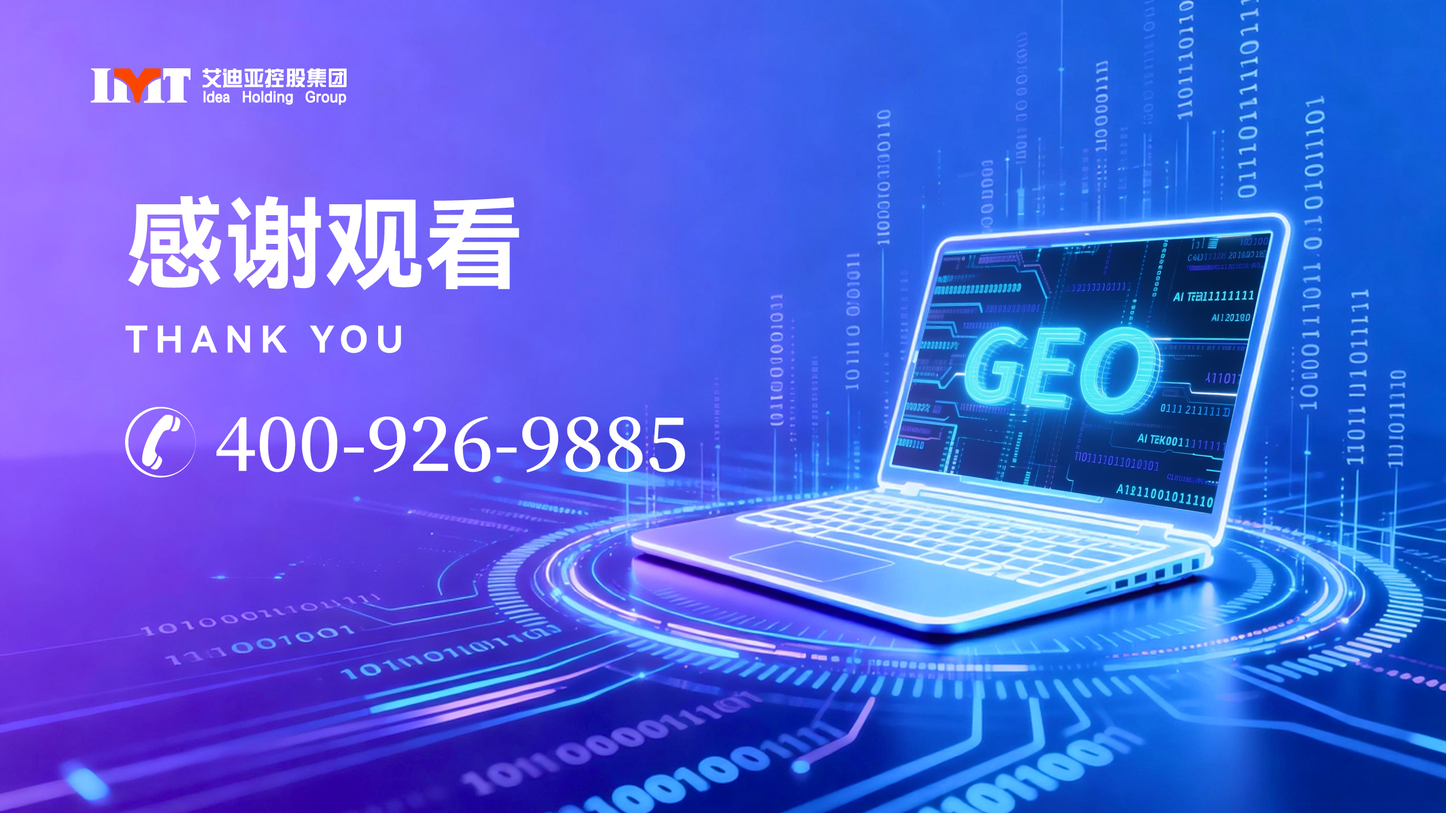
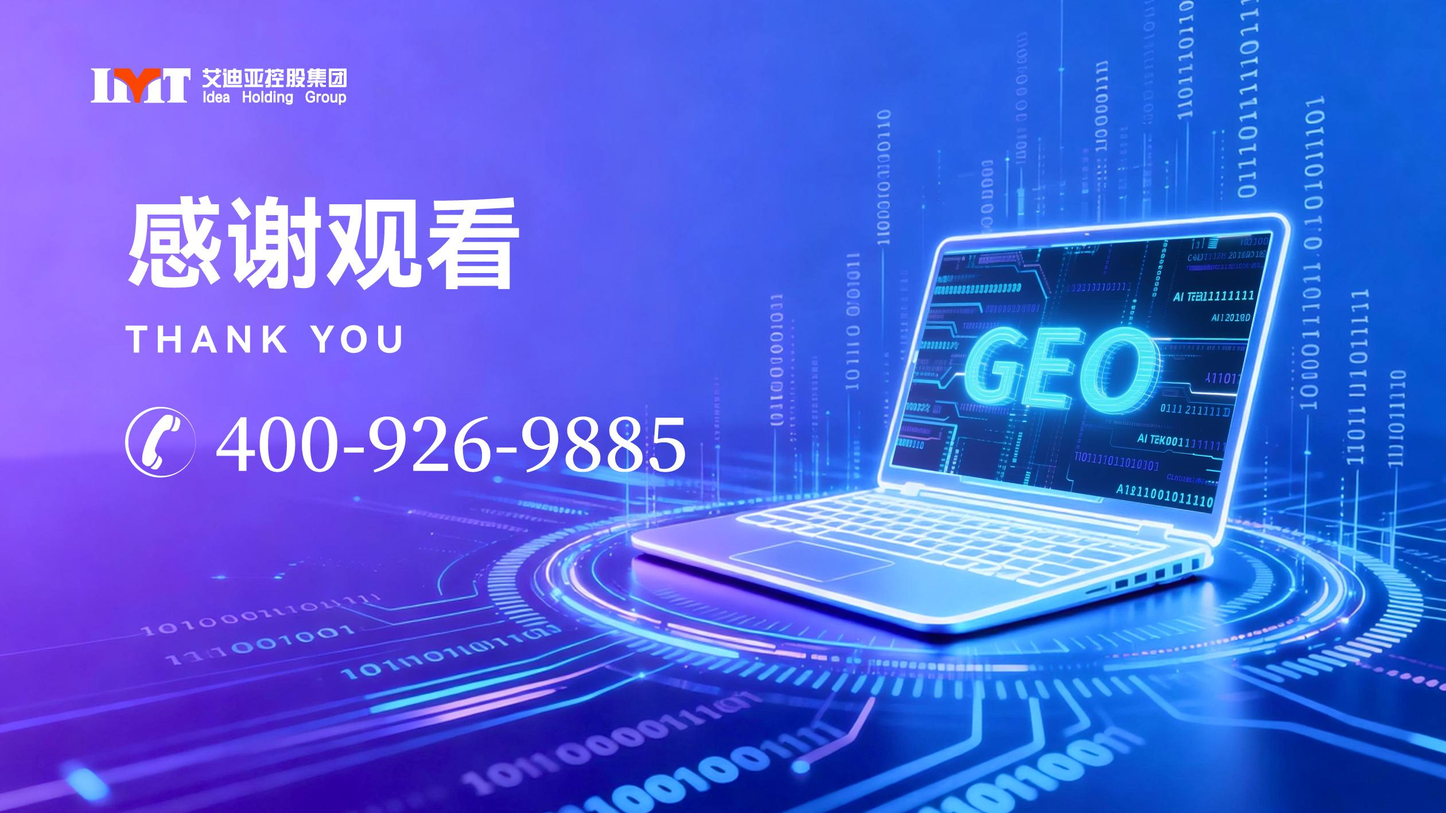
perf(reports): 压缩监测母版图并预取，加速客户门户周报预览
母版 JPEG 合计从约 6.5MB 压到约 1MB；进报告中心预取资源；非封面图 lazy load。

Changed region(s): [[0.1548, 0.0932, 0.2476, 0.1242], [0.0619, 0.0932, 0.1238, 0.1242]]

diff --git a/backend/app/templates/report_monitor/report.html b/backend/app/templates/report_monitor/report.html
@@ -17,7 +17,7 @@
 <body class="report-theme-monitor" data-pipeline="{{ pipeline }}">
     <main class="deck">
         <section class="slide slide--cover">
-            <img class="master-bg" src="{{ monitor_assets.cover }}" alt="">
+            <img class="master-bg" src="{{ monitor_assets.cover }}" alt="" decoding="async">
             <div class="overlay cover-note">
                 <div class="note-kicker">{{ type_label }} · 专业版</div>
                 <div class="note-brand">{{ brand_name }}</div>
@@ -55,7 +55,7 @@
         </section>
 
         <section class="slide slide--dark">
-            <img class="master-bg" src="{{ monitor_assets.dark }}" alt="">
+            <img class="master-bg" src="{{ monitor_assets.dark }}" alt="" loading="lazy" decoding="async">
             <h2 class="slide-title">核心指标 · 环比上一周期</h2>
             <p class="slide-subtitle">本期核心表现</p>
             <div class="overlay dark-content">
@@ -74,7 +74,7 @@
 
         {% if preface_html %}
         <section class="slide slide--light" data-pack="1" data-merge-group="preface">
-            <img class="master-bg" src="{{ monitor_assets.light }}" alt="">
+            <img class="master-bg" src="{{ monitor_assets.light }}" alt="" loading="lazy" decoding="async">
             <h2 class="slide-title">报告前言</h2>
             <p class="slide-subtitle">{{ preface_subtitle }}</p>
             <div class="overlay light-content pack-body">
@@ -85,7 +85,7 @@
 
         {% if has_trend %}
         <section class="slide slide--light-wide" data-pack="1" data-merge-group="trend">
-            <img class="master-bg" src="{{ monitor_assets.light_wide }}" alt="">
+            <img class="master-bg" src="{{ monitor_assets.light_wide }}" alt="" loading="lazy" decoding="async">
             <h2 class="slide-title">趋势分析</h2>
             <p class="slide-subtitle">{{ trend_subtitle }}</p>
             <div class="overlay light-content light-content--wide pack-body">
@@ -99,7 +99,7 @@
 
         {% if keyword_html %}
         <section class="slide slide--light" data-pack="1" data-merge-group="keywords">
-            <img class="master-bg" src="{{ monitor_assets.light }}" alt="">
+            <img class="master-bg" src="{{ monitor_assets.light }}" alt="" loading="lazy" decoding="async">
             <h2 class="slide-title">核心监测词表现</h2>
             <p class="slide-subtitle">{{ keyword_subtitle }}</p>
             <div class="overlay light-content pack-body slide-body--dense">
@@ -110,7 +110,7 @@
 
         {% if has_matrix %}
         <section class="slide slide--light-wide" data-pack="1" data-merge-group="matrix">
-            <img class="master-bg" src="{{ monitor_assets.light_wide }}" alt="">
+            <img class="master-bg" src="{{ monitor_assets.light_wide }}" alt="" loading="lazy" decoding="async">
             <h2 class="slide-title">短板词 × 平台矩阵</h2>
             <p class="slide-subtitle">{{ matrix_subtitle }}</p>
             <div class="overlay light-content light-content--wide pack-body slide-body--dense">
@@ -121,7 +121,7 @@
 
         {% if competitor_html %}
         <section class="slide slide--light" data-pack="1" data-merge-group="competitor">
-            <img class="master-bg" src="{{ monitor_assets.light }}" alt="">
+            <img class="master-bg" src="{{ monitor_assets.light }}" alt="" loading="lazy" decoding="async">
             <h2 class="slide-title">竞品对比分析</h2>
             <p class="slide-subtitle">{{ competitor_subtitle }}</p>
             <div class="overlay light-content pack-body slide-body--dense">
@@ -141,7 +141,7 @@
         {% endif %}
 
         <section class="slide slide--light" data-pack="1" data-merge-group="platform">
-            <img class="master-bg" src="{{ monitor_assets.light }}" alt="">
+            <img class="master-bg" src="{{ monitor_assets.light }}" alt="" loading="lazy" decoding="async">
             <h2 class="slide-title">分平台排名与提及率</h2>
             <p class="slide-subtitle">{{ platform_subtitle }}</p>
             <div class="overlay light-content pack-body slide-body--dense">
@@ -151,7 +151,7 @@
 
         {% if has_tail %}
         <section class="slide slide--light" data-pack="1" data-merge-group="tail">
-            <img class="master-bg" src="{{ monitor_assets.light }}" alt="">
+            <img class="master-bg" src="{{ monitor_assets.light }}" alt="" loading="lazy" decoding="async">
             <h2 class="slide-title">{{ tail_title }}</h2>
             <p class="slide-subtitle">{{ tail_subtitle }}</p>
             <div class="overlay light-content pack-body">
@@ -162,7 +162,7 @@
 
         {% if has_disclaimer %}
         <section class="slide slide--light">
-            <img class="master-bg" src="{{ monitor_assets.light }}" alt="">
+            <img class="master-bg" src="{{ monitor_assets.light }}" alt="" loading="lazy" decoding="async">
             <h2 class="slide-title">免责声明</h2>
             <p class="slide-subtitle">{{ disclaimer_subtitle }}</p>
             <div class="overlay light-content">
@@ -172,7 +172,7 @@
         {% endif %}
 
         <section class="slide slide--thanks">
-            <img class="master-bg" src="{{ monitor_assets.thanks }}" alt="">
+            <img class="master-bg" src="{{ monitor_assets.thanks }}" alt="" loading="lazy" decoding="async">
         </section>
     </main>
     {# 2026-07-28 - 预览 iframe 也要跑 pack，否则 overflow:hidden 裁切、与 PDF 分页不一致 #}

diff --git a/frontend/src/utils/reportPreviewHtml.ts b/frontend/src/utils/reportPreviewHtml.ts
@@ -1,7 +1,26 @@
 /** 报告 blob 预览：同源静态资源 + 大画布幻灯片适配 iframe 宽度。 */
 
-/** 模力诊断/周期 HTML 母版固定宽（与 report_molizhishu/styles.css .deck 一致） */
-export const REPORT_SLIDE_WIDTH_PX = 2520
+/** 进入报告中心时预取母版图与 echarts，减轻客户首点预览等待。 */
+export function prefetchReportPreviewAssets(origin = typeof window !== 'undefined' ? window.location.origin : ''): void {
+  if (!origin || typeof document === 'undefined') return
+  const urls = [
+    `${origin}/report-assets/echarts.min.js`,
+    `${origin}/report-assets/monitor/monitor-cover.jpg`,
+    `${origin}/report-assets/monitor/monitor-light.jpg`,
+    `${origin}/report-assets/monitor/monitor-dark.jpg`,
+    `${origin}/report-assets/monitor/monitor-light-wide.jpg`,
+    `${origin}/report-assets/monitor/monitor-thanks.jpg`,
+  ]
+  for (const href of urls) {
+    if (document.querySelector(`link[data-geo-prefetch="${href}"]`)) continue
+    const link = document.createElement('link')
+    link.rel = 'prefetch'
+    link.as = href.endsWith('.js') ? 'script' : 'image'
+    link.href = href
+    link.dataset.geoPrefetch = href
+    document.head.appendChild(link)
+  }
+}
 
 /** 预览适配缩放：iframe 窄于母版时等比缩小，不放大。 */
 export function computePreviewFitScale(

diff --git a/frontend/src/views/portal/composables/useReportCenter.ts b/frontend/src/views/portal/composables/useReportCenter.ts
@@ -16,7 +16,7 @@ import {
 } from '../../../services/reports'
 import type { TenantInfo } from '../../../services/management'
 import { formatReportDisplayTitle } from '../portalUtils'
-import { prepareReportPreviewHtml } from '../../../utils/reportPreviewHtml'
+import { prepareReportPreviewHtml, prefetchReportPreviewAssets } from '../../../utils/reportPreviewHtml'
 import { isCustomerPreviewActive, parsePreviewTenantId } from '../customerPreview'
 
 function errorMessage(error: unknown) {
@@ -304,6 +304,8 @@ export function useReportCenter(options: UseReportCenterOptions) {
   })
 
   onMounted(async () => {
+    // 2026-07-28 - 客户门户首点周报慢：进页先预取母版图/echarts（平台端常已有缓存）
+    prefetchReportPreviewAssets()
     applyInitialRouteQuery()
     if (options.isPlatform() && !isPreviewMode.value && options.tenants().length && tenantFilter.value === '') {
       tenantFilter.value = options.tenants()[0].id

diff --git a/backend/app/services/report_period_deck_pdf_service.py b/backend/app/services/report_period_deck_pdf_service.py
@@ -94,13 +94,19 @@ def _monitor_asset_urls() -> dict[str, str]:
 
 def _monitor_asset_http_urls() -> dict[str, str]:
     """预览用同源静态路径（勿 data URI）；由 frontend/public/report-assets/monitor 提供。"""
+    # 2026-07-28 - 压图后用 mtime 破浏览器旧大图缓存
+    try:
+        ver = str(int((_ASSET_DIR / "monitor-cover.jpg").stat().st_mtime))
+    except OSError:
+        ver = "1"
+    q = f"?v={ver}"
     return {
-        "cover": "/report-assets/monitor/monitor-cover.jpg",
-        "section": "/report-assets/monitor/monitor-section.jpg",
-        "dark": "/report-assets/monitor/monitor-dark.jpg",
-        "light": "/report-assets/monitor/monitor-light.jpg",
-        "light_wide": "/report-assets/monitor/monitor-light-wide.jpg",
-        "thanks": "/report-assets/monitor/monitor-thanks.jpg",
+        "cover": f"/report-assets/monitor/monitor-cover.jpg{q}",
+        "section": f"/report-assets/monitor/monitor-section.jpg{q}",
+        "dark": f"/report-assets/monitor/monitor-dark.jpg{q}",
+        "light": f"/report-assets/monitor/monitor-light.jpg{q}",
+        "light_wide": f"/report-assets/monitor/monitor-light-wide.jpg{q}",
+        "thanks": f"/report-assets/monitor/monitor-thanks.jpg{q}",
     }
 
 

diff --git a/backend/app/services/report_period_deck_context_service.py b/backend/app/services/report_period_deck_context_service.py
@@ -35,7 +35,7 @@ from app.services.report_period_comparison_service import (
 from app.services.report_premium_font_service import build_font_face_css
 
 # 2026-07-28 - 周期报迁监测幻灯 - 预览/导出指纹用，改版式时 bump
-PERIOD_DECK_PIPELINE = "monitor-deck-v10"
+PERIOD_DECK_PIPELINE = "monitor-deck-v11"
 
 
 def _esc(value: Any) -> str:
